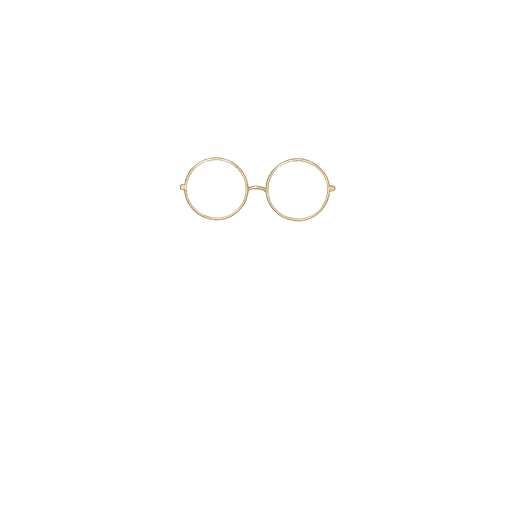
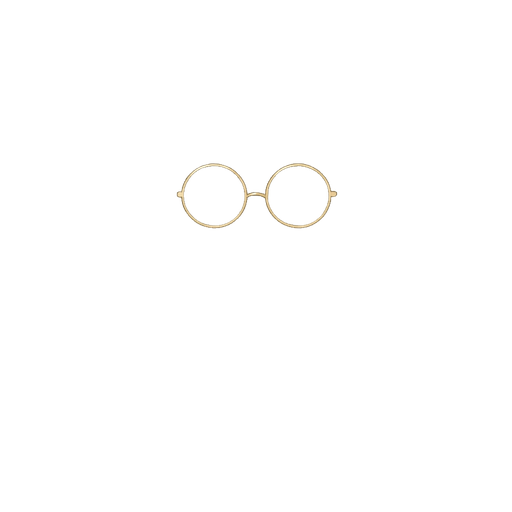
Lower the glasses onto the eyes; place them level
The anchors were the centroid of eye *ink*, which the eyebrow and the heavy
upper lash line drag upward — so the frame sat about 13px high, and the 2px
of vertical difference between the two measurements tilted it 2.1 degrees.

Anchors are now the eye centres proper, from the vertical extent of eye ink
in a window clear of the hair (girl 394, boy 388) and the horizontal extent
mirrored about the figure centre at x=512. Both share a y, so the frame is
level; the couple of pixels the eyes differ by is noise, not a tilt.

Placement verified exact: the placed lens centres land on (428, 391) and
(596, 391), matching the anchors to the pixel.

Changed region(s): [[0.5312, 0.2812, 0.6562, 0.4688], [0.3438, 0.3438, 0.5312, 0.4688], [0.375, 0.2812, 0.4688, 0.3438]]

diff --git a/web/index.html b/web/index.html
@@ -16,7 +16,7 @@
 <meta name="apple-mobile-web-app-title" content="Moodmate">
 <link rel="manifest" href="manifest.webmanifest">
 <link rel="apple-touch-icon" href="assets/appicon-192.png">
-<link rel="stylesheet" href="styles.css?v=7c4a7f603d">
+<link rel="stylesheet" href="styles.css?v=2e0d290b45">
 <script>
   /* Runs before first paint, so a chosen theme doesn't arrive a frame late as
      a white flash. app.js reads the same key and owns it from there. */
@@ -159,7 +159,7 @@
 
 <div class="lightbox" id="lightbox" hidden></div>
 
-<script src="i18n.js?v=7c4a7f603d"></script>
-<script src="app.js?v=7c4a7f603d"></script>
+<script src="i18n.js?v=2e0d290b45"></script>
+<script src="app.js?v=2e0d290b45"></script>
 </body>
 </html>

diff --git a/web/sw.js b/web/sw.js
@@ -5,7 +5,7 @@
 // Stamped by export_web.py from a hash of the built assets. It must change
 // whenever any asset does, because the image rule below is cache-first and a
 // cache keyed by a constant name is never invalidated.
-const CACHE = "moodmate-7c4a7f603d";
+const CACHE = "moodmate-2e0d290b45";
 const SHELL = [
   ".", "index.html", "styles.css", "app.js",
   "manifest.webmanifest", "assets/items.json",

diff --git a/place_accessory.py b/place_accessory.py
@@ -32,8 +32,15 @@ import numpy as np
 from PIL import Image, ImageFilter
 from process_item import outside, components
 
-EYE_L = (432.0, 377.0)      # mean eye-ink centroid, all ten faces
-EYE_R = (595.0, 379.0)
+# Centre of each eye, not the centroid of its ink. The first attempt used the
+# ink centroid and sat the glasses ~13px high, because the brow and the heavy
+# upper lash line drag that centroid up above the eye itself. These come from
+# the vertical extent of eye ink in a window clear of the hair (girl 394, boy
+# 388) and the horizontal extent mirrored about the figure's centre at x=512.
+# Both anchors share a y so the placement is level: the couple of pixels of
+# difference the two eyes measure is noise, and honouring it tilts the frame.
+EYE_L = (428.0, 391.0)
+EYE_R = (596.0, 391.0)
 CANVAS = 1024
 PLATE_LEVEL, PLATE_CHROMA = 242, 12
 
